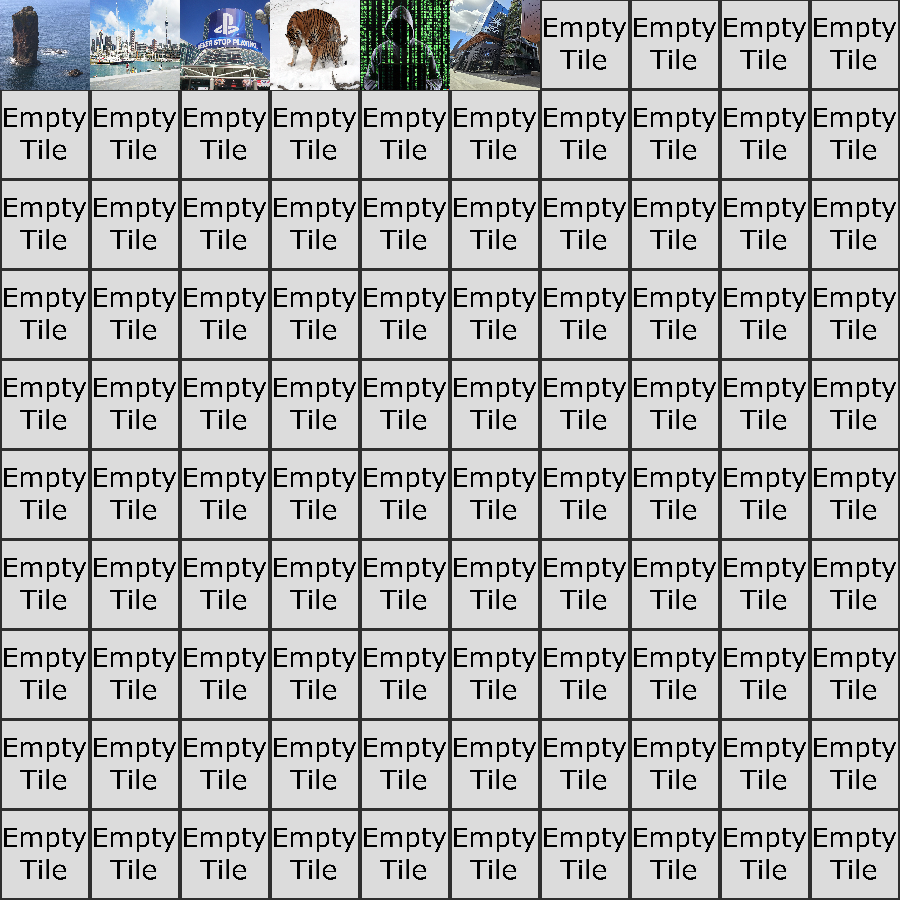
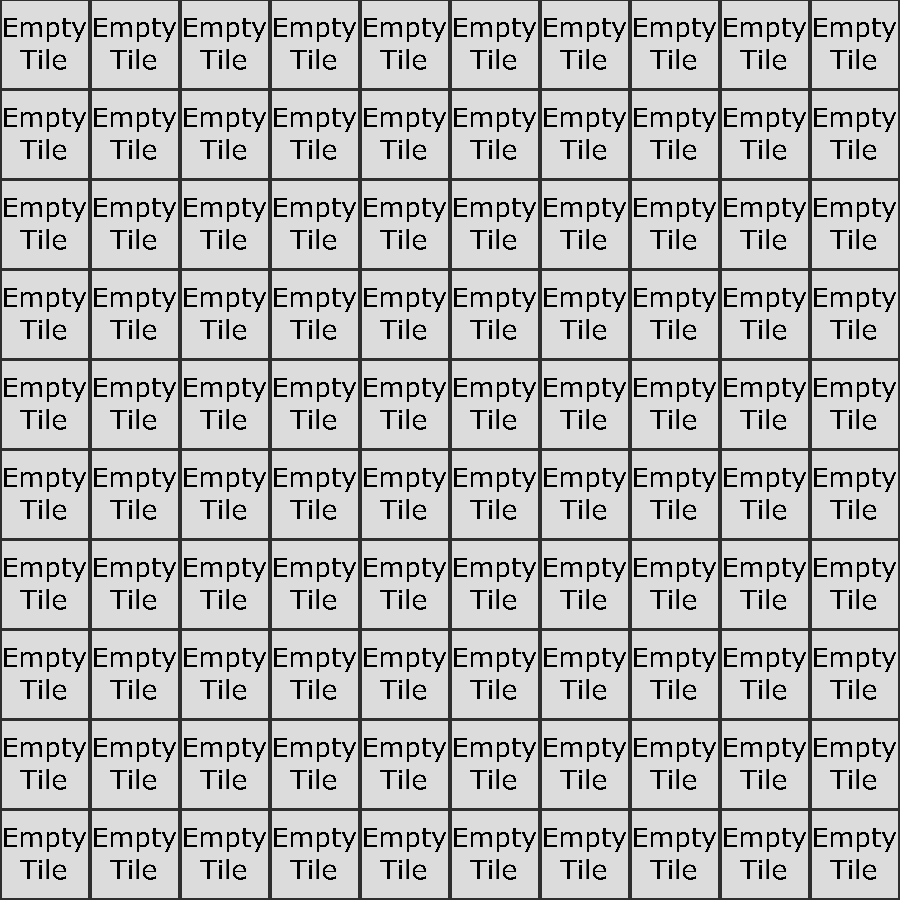
fixed the bug

Changed region(s): [[0.0, 0.0, 0.6222, 0.1244]]

diff --git a/GD2P03_Assingment1_Starter/main.cpp b/GD2P03_Assingment1_Starter/main.cpp
@@ -12,7 +12,19 @@
 #include <thread>
 #include "Button.h"
 #include "ThreadPool.h"
-
+/*auto downloadImage = [](const std::string& _url, const std::string& _filePath, CDownloader& _downloader) -> int {
+    std::ifstream file(_filePath);
+    if (!file.good()) {
+        if (_downloader.DownloadToFile(_url.c_str(), _filePath.c_str())) {
+            std::cout << "image download success: " << _url << std::endl;
+        }
+        else {
+            std::cout << "image download FAILED: " << _url << std::endl;
+        }
+    }
+    return 0;
+};
+*/
 
 // Function to split URLs from a string
 std::vector<std::string> splitUrls(const std::string& _data) {
@@ -24,6 +36,21 @@ std::vector<std::string> splitUrls(const std::string& _data) {
         oldPos = pos + 1;
     }
     return urls;
+}
+
+// Function to download images asynchronously
+int downloadImage(const std::string& _url, const std::string& _filePath, CDownloader& _downloader) {
+    std::ifstream file(_filePath);
+    if (!file.good()) {
+        if (_downloader.DownloadToFile(_url.c_str(), _filePath.c_str())) {
+            std::cout << "image download success: " << _url << std::endl;
+
+        }
+        else {
+            std::cout << "image download FAILED: " << _url << std::endl;
+        }
+    }
+    return 0;
 }
 
 int main() {
@@ -99,24 +126,24 @@ int main() {
     downloader.Init();
     ThreadPool pool(std::thread::hardware_concurrency());
 
-    const char* fileToDownload = fileSizeIsSmall ? "https://raw.githubusercontent.com/MDS-HugoA/TechLev/main/ImgListSmall.txt" : "https://raw.githubusercontent.com/MDS-HugoA/TechLev/main/ImgListLarge.txt";
+    auto fileToDownload = fileSizeIsSmall ? "https://raw.githubusercontent.com/MDS-HugoA/TechLev/main/ImgListSmall.txt" : "https://raw.githubusercontent.com/MDS-HugoA/TechLev/main/ImgListLarge.txt";
     std::string data;
     if (!downloader.Download(fileToDownload, data)) {
         std::cout << "data failed to download" << std::endl;
         return 1; // Exit if download fails
     }
     auto downloadImage = [](const std::string& _url, const std::string& _filePath, CDownloader& _downloader) -> int {
-        std::ifstream file(_filePath);
-        if (!file.good()) {
-            if (_downloader.DownloadToFile(_url.c_str(), _filePath.c_str())) {
-                std::cout << "image download success: " << _url << std::endl;
-            }
-            else {
-                std::cout << "image download FAILED: " << _url << std::endl;
-            }
+    std::ifstream file(_filePath);
+    if (!file.good()) {
+        if (_downloader.DownloadToFile(_url.c_str(), _filePath.c_str())) {
+            std::cout << "image download success: " << _url << std::endl;
         }
-        return 0;
-        };
+        else {
+            std::cout << "image download FAILED: " << _url << std::endl;
+        }
+    }
+    return 0;
+};
 
     std::vector<std::string> urls = splitUrls(data);
     std::vector<std::future<int>> futures;
@@ -129,8 +156,10 @@ int main() {
         filePaths.push_back(filePath);
         downloadFutures.push_back(pool.enqueue(downloadImage, url, filePath, std::ref(downloader)));
     }
-
-
+    for (auto& future : downloadFutures) {
+        future.wait();
+    }
+    // downloads have to go first 
 
     // Initialize grid
 
